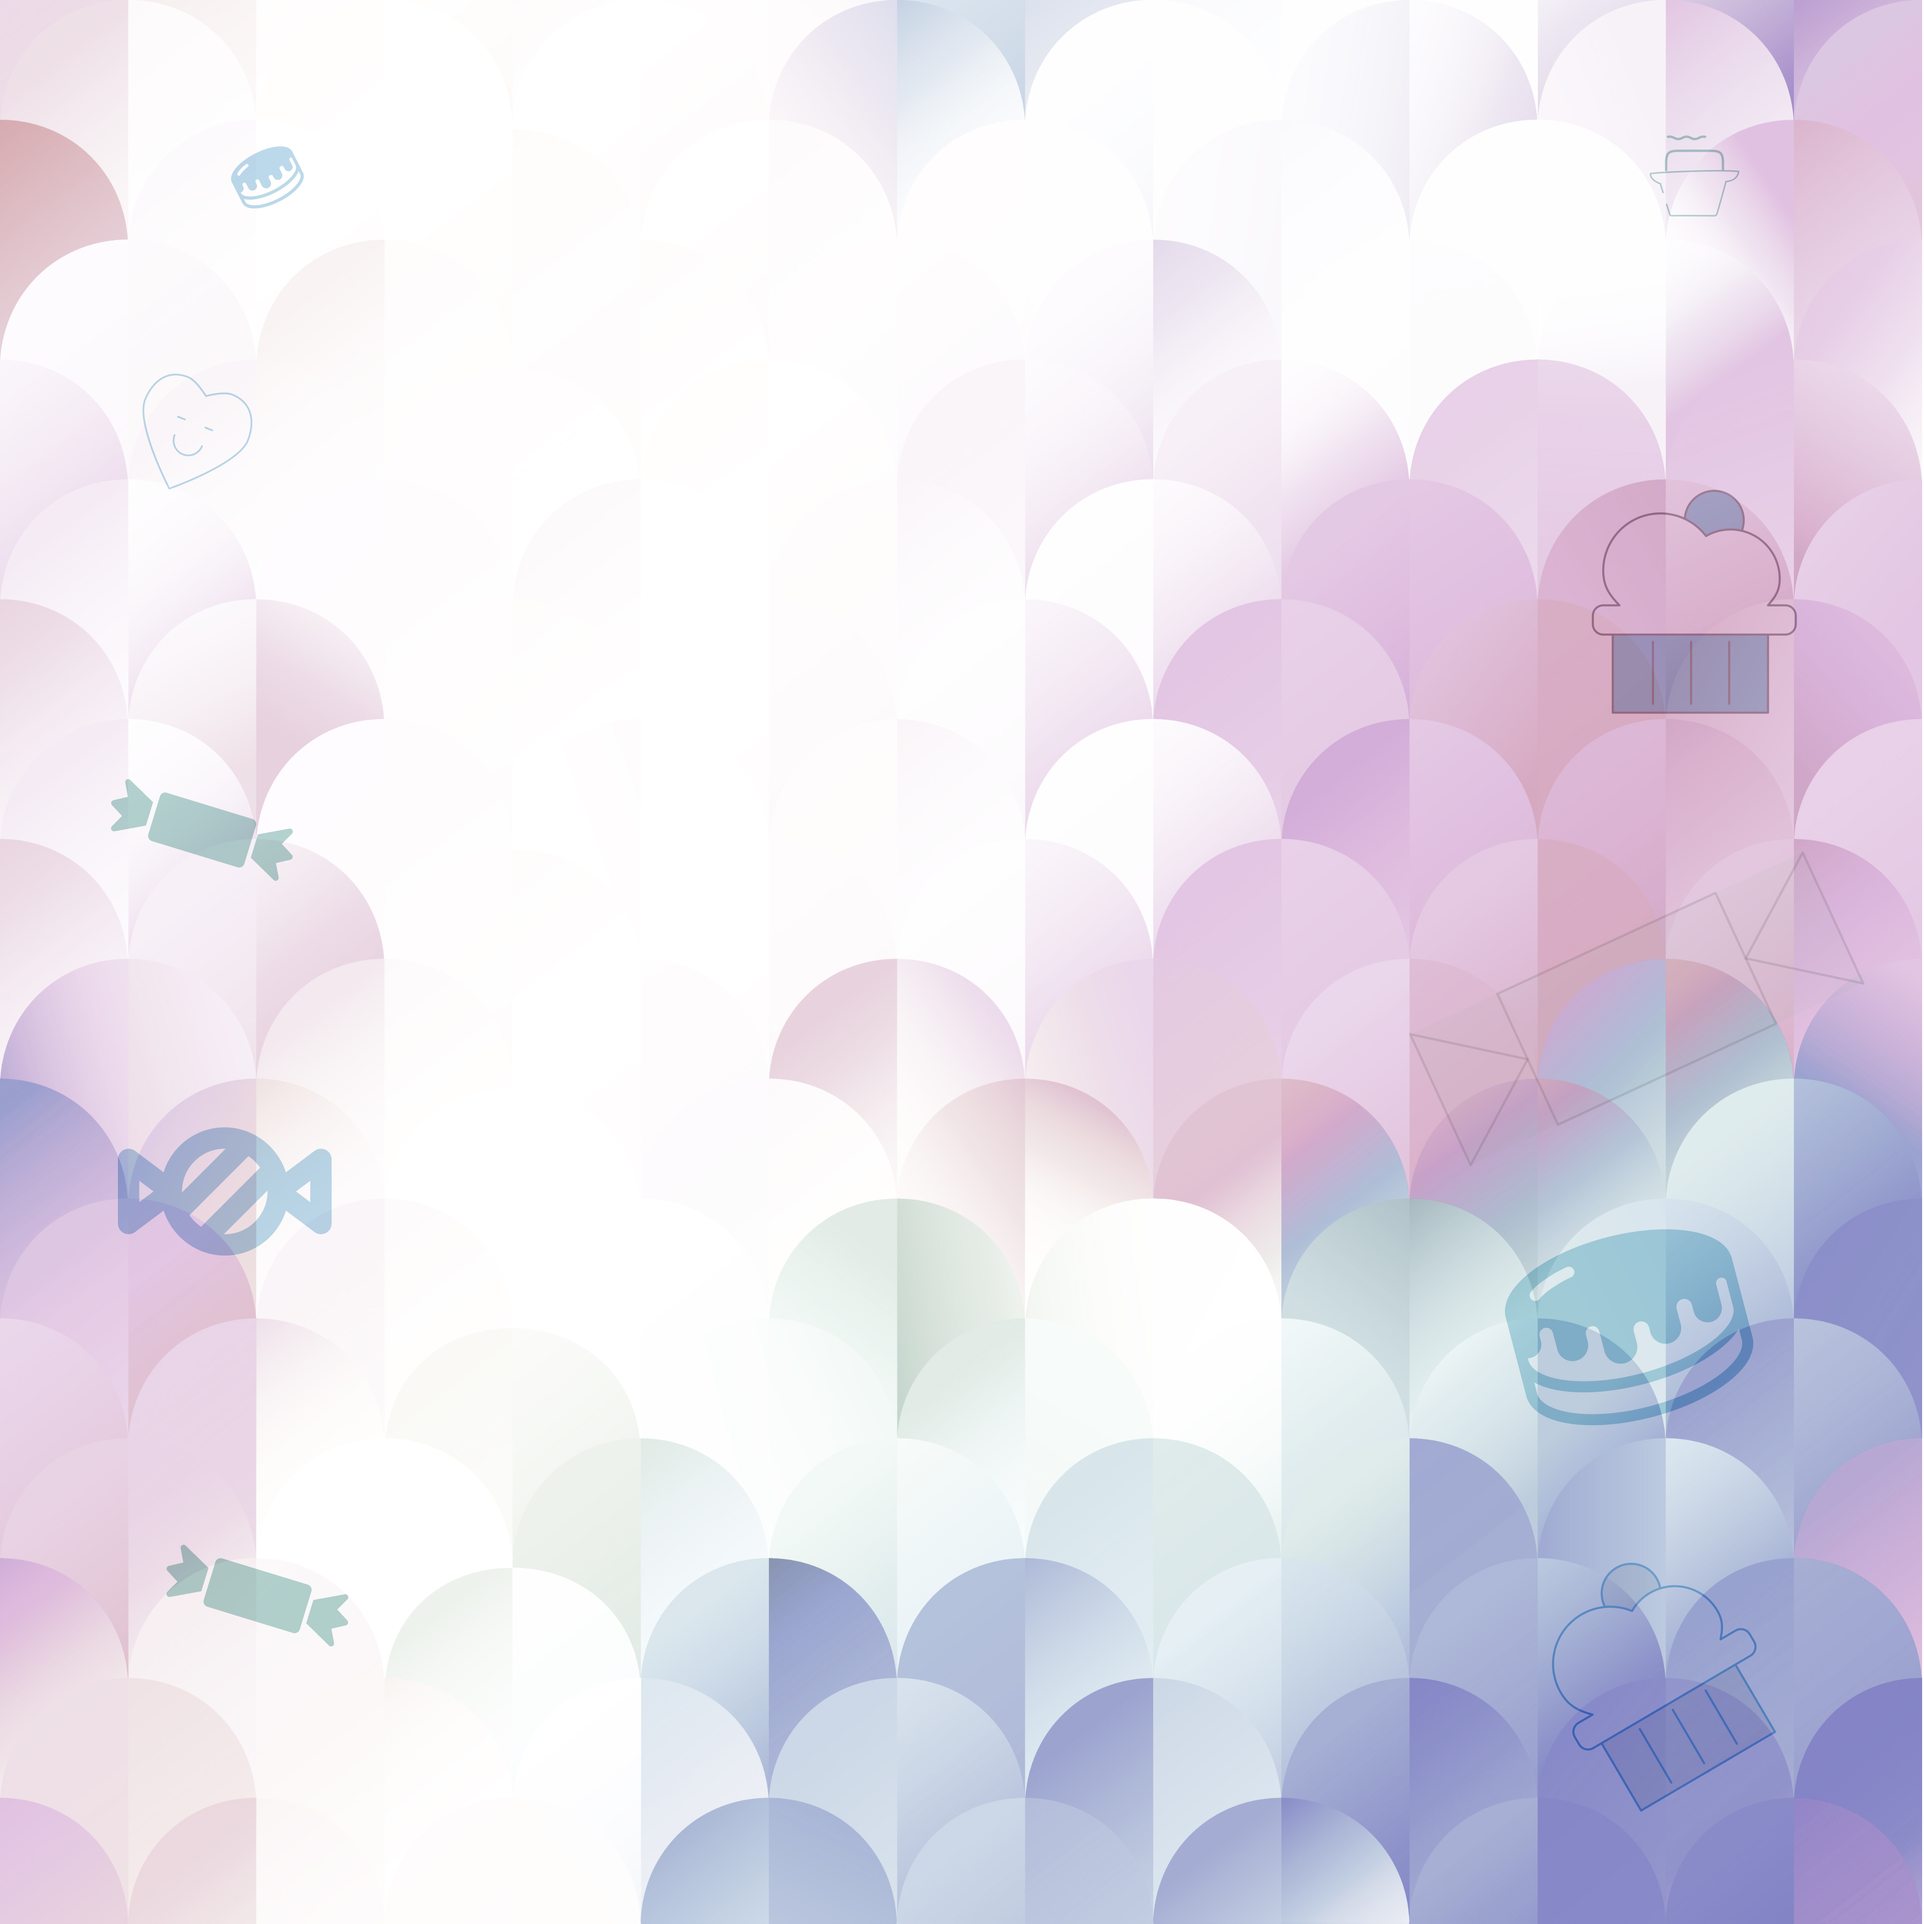
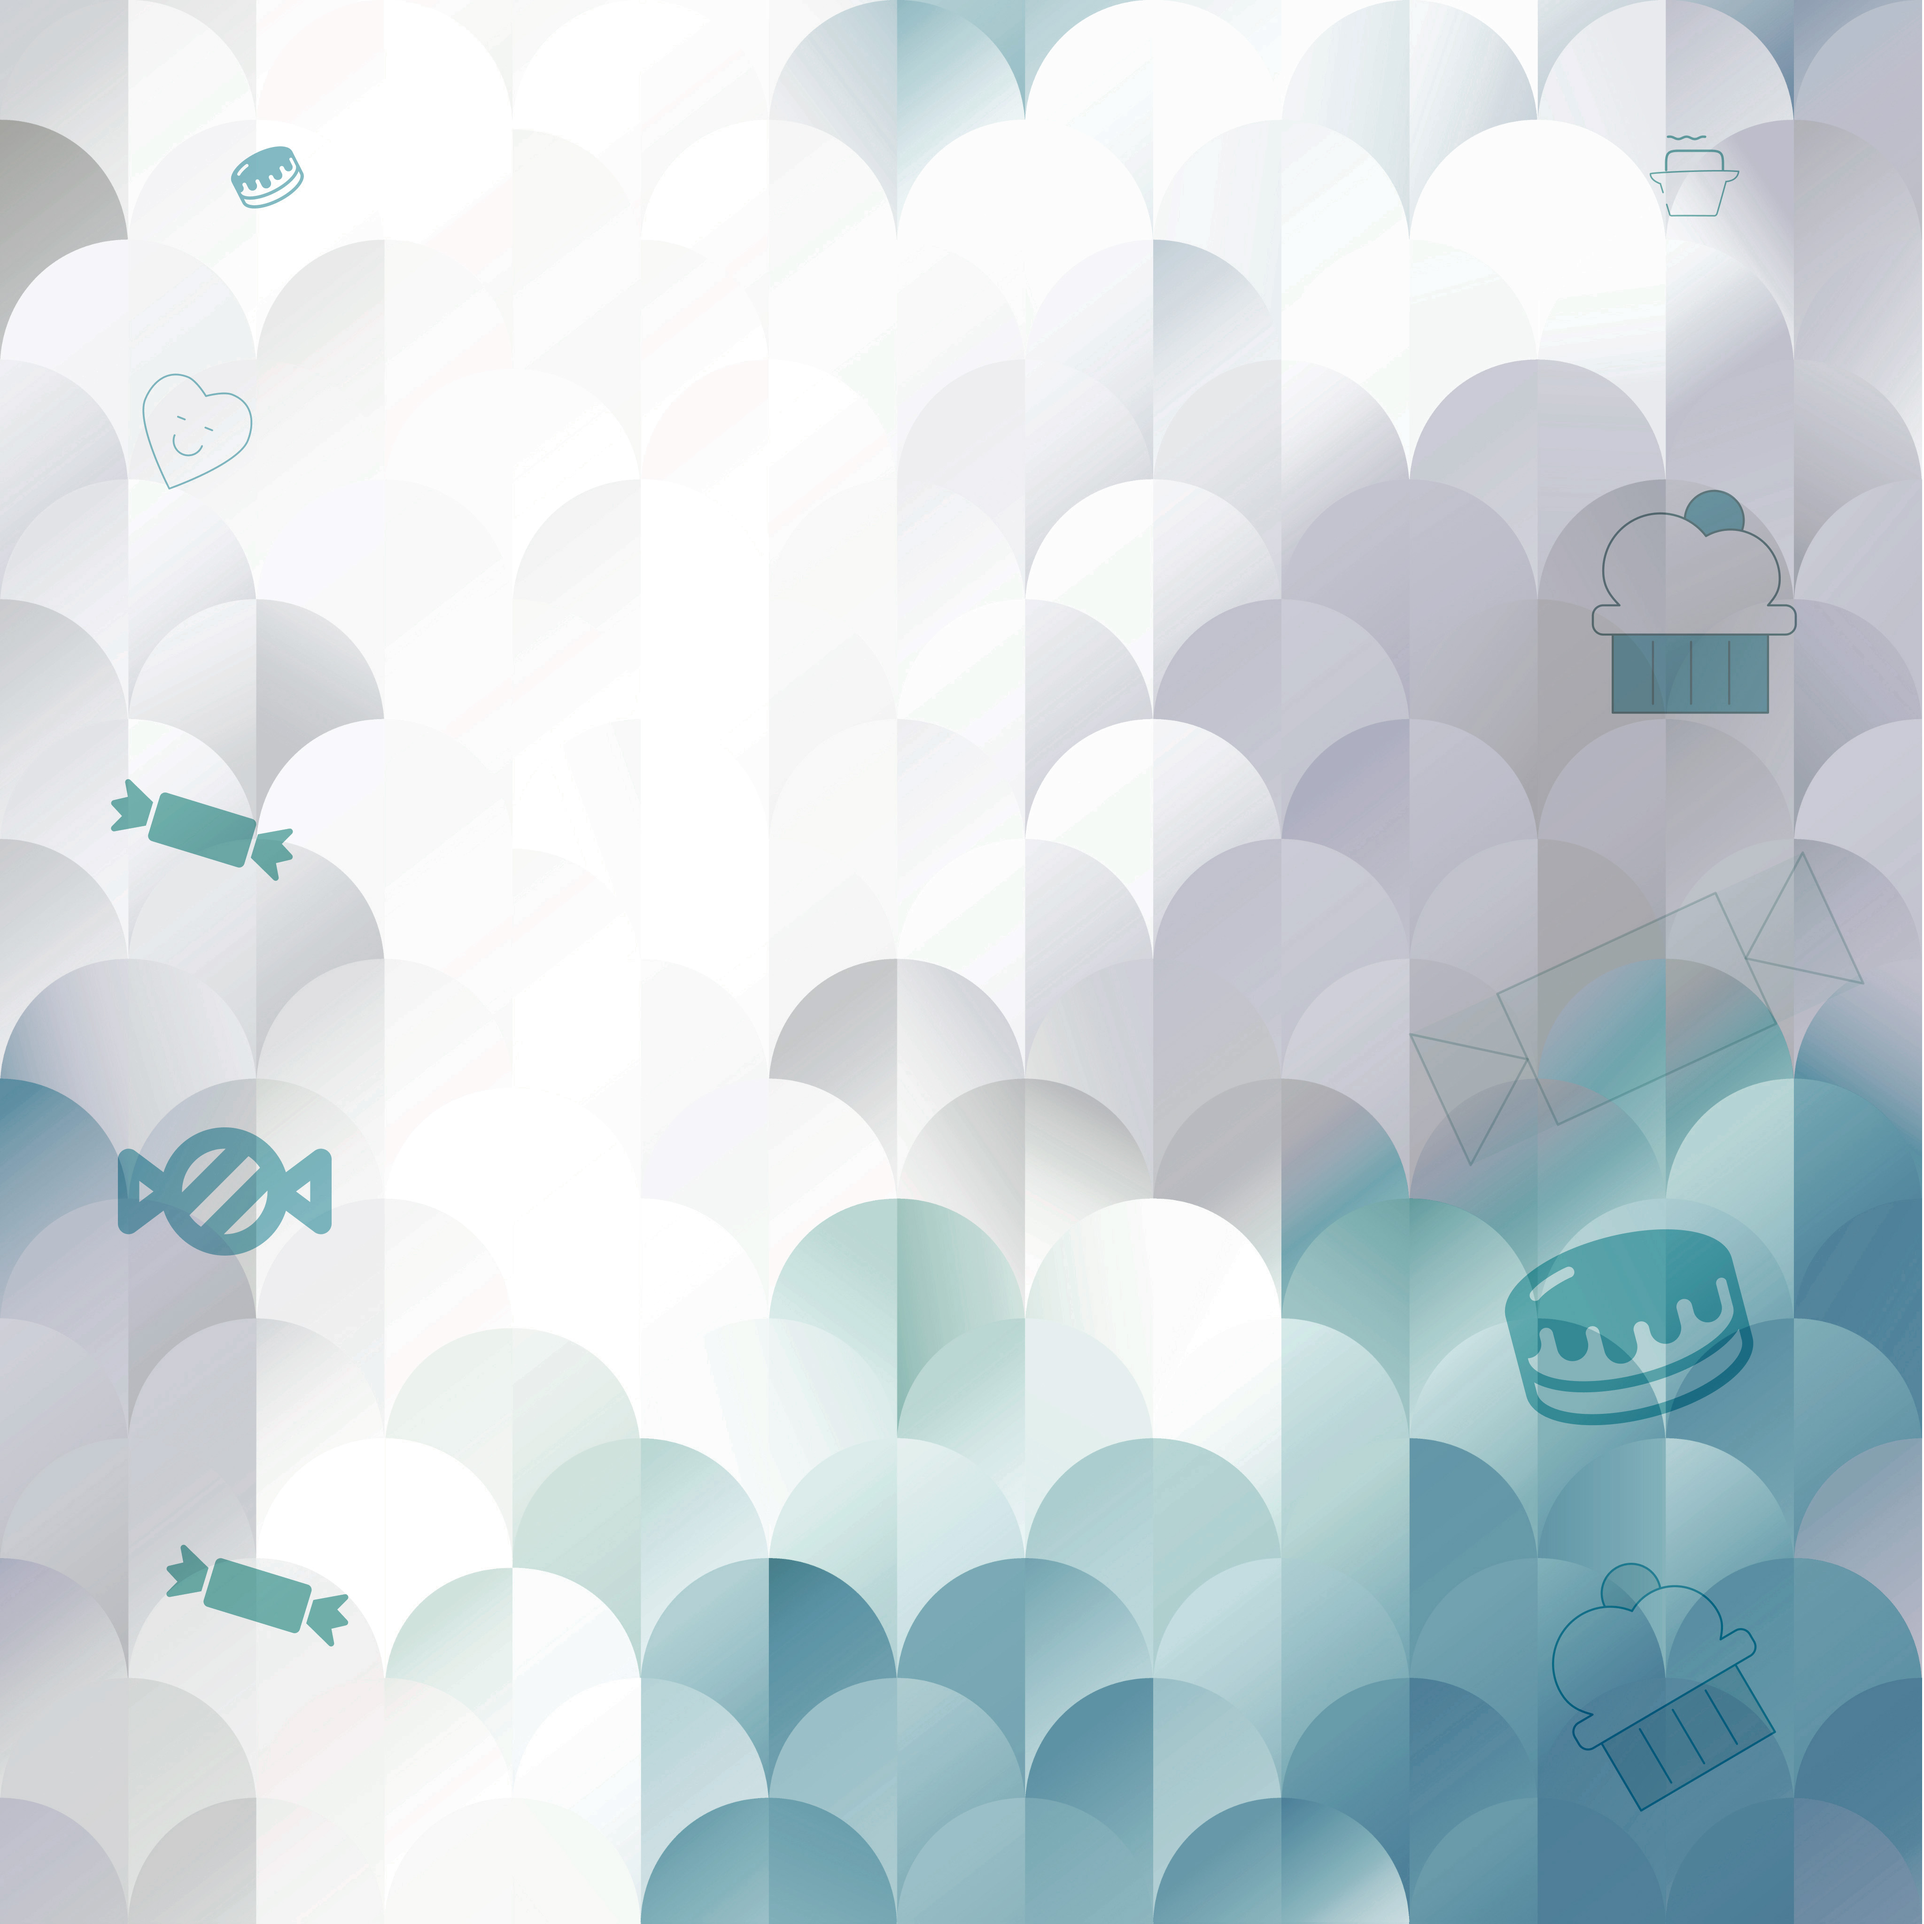
troca bg

diff --git a/app/components/EventosPassado.js b/app/components/EventosPassado.js
@@ -2,6 +2,7 @@
 import React, { useState } from 'react';
 
 import Image from 'next/image';
+import Divider from './Divider';
 
 const imagensPorAno = {
   2022: [
@@ -29,15 +30,15 @@ export default function EventosPassados() {
     <section id="EventosPassados">
       <div className="container pt-5">
         <div className="text-center mb-5">
-          <h2 className="text-center">Projeto Família Amor Eterno</h2>
+          <h2 className="text-center teste">Projeto Família Amor Eterno</h2>
           <div className="blue-divider"></div>
         </div>
         <div className="row">
           <div className="col-md-6 d-flex justify-content-center align-items-center">
             <Image
-              src="/foto1-20.webp"
+              src="/equipe.webp"
               alt="Background Image"
-              width={500}
+              width={600}
               height={300}
               layout="responsive"
             />
@@ -61,15 +62,19 @@ export default function EventosPassados() {
             </div>
           </div>
         </div>
+        <div className="pt-5"></div>
+        <Divider />
+        <div className="pt-5"></div>
         <div className="row">
           <div className="col-2"></div>
           <div className="col-8">
             {Object.keys(imagensPorAno).map((ano) => (
               <div key={ano}>
-                <h2 className="text-center mb-2 mt-3 ">
+                <h2 className="text-center mb-2 mt-3 teste ">
                   Campanha de doação de {ano}
                 </h2>
                 <div className="blue-divider"></div>
+                <div className="pt-3"></div>
                 <CustomCarousel images={imagensPorAno[ano]} />
               </div>
             ))}
@@ -77,6 +82,7 @@ export default function EventosPassados() {
           <div className="col-2"></div>
         </div>
       </div>
+      <div className="pt-5"></div>
     </section>
   );
 }

diff --git a/app/components/SecaoHero.js b/app/components/SecaoHero.js
@@ -19,10 +19,10 @@ const SecaoHero = () => {
       <div className="text-center">
         <h1
           style={{
-            fontSize: '4rem',
+            fontSize: '6rem',
             fontFamily: "'Comic Sans MS', cursive, sans-serif",
-            color: '#1E90FF',
-            textShadow: '3px 3px 2px rgba(0, 0, 0, 0.3)', // Borda nas letras
+            color: '#003CC3',
+            textShadow: '3px 3px 2px rgba(0, 0, 0, 5)', // Borda nas letras
           }}
         >
           DIA DAS CRIANÇAS
@@ -30,10 +30,10 @@ const SecaoHero = () => {
         <p
           className="lead"
           style={{
-            fontSize: '2rem',
+            fontSize: '3rem',
             fontFamily: "'Comic Sans MS', cursive, sans-serif",
-            color: 'black',
-            textShadow: '2px 2px 1px rgba(0, 0, 0, 0.2)', // Borda nas letras
+            color: '#F5FDFF',
+            textShadow: '2px 2px 5px rgba(0, 0, 0, 8)', // Borda nas letras
           }}
         >
           Projeto família amor eterno 2023
@@ -47,7 +47,9 @@ const SecaoHero = () => {
           style={{
             fontSize: '2rem',
             fontFamily: "'Comic Sans MS', cursive, sans-serif",
-            textShadow: '2px 2px 1px rgba(255, 255, 255, 0.2)', // Borda nas letras
+            textShadow: '2px 2px 1px rgba(245, 253, 255, .8)', //
+
+            fontWeight: 'bold',
           }}
         >
           Ajude a fazer um Dia das Crianças mais feliz
@@ -58,7 +60,7 @@ const SecaoHero = () => {
             fontSize: '1.5rem',
           }}
         >
-          Quero ajudar
+          QUERO AJUDAR
         </button>
       </div>
     </div>

diff --git a/app/components/Divider.js b/app/components/Divider.js
@@ -12,6 +12,11 @@ const Divider = () => {
       <div className={styles.cloud} style={{ left: '900px' }}></div>
       <div className={styles.cloud} style={{ left: '1050px' }}></div>
       <div className={styles.cloud} style={{ left: '1200px' }}></div>
+      <div className={styles.cloud} style={{ left: '1350px' }}></div>
+      <div className={styles.cloud} style={{ left: '1500px' }}></div>
+      <div className={styles.cloud} style={{ left: '1650px' }}></div>
+      <div className={styles.cloud} style={{ left: '1800px' }}></div>
+      <div className={styles.cloud} style={{ left: '1950px' }}></div>
     </div>
   );
 };

diff --git a/app/components/Sobre.js b/app/components/Sobre.js
@@ -49,8 +49,8 @@ export default function Sobre() {
               src="/chacara.jpg"
               alt="Foto da comunidade"
               width={900} // Defina as dimensões que preferir
-              height={100}
-              className="img-fluid"
+              height={750}
+              className="rounded-3"
             />
           </div>
         </div>

diff --git a/app/components/EsseAno.js b/app/components/EsseAno.js
@@ -17,7 +17,7 @@ const EsseAno = () => {
 
   return (
     <section id="EsseAno" className="container">
-      <h2 className="text-center pt-5">Projeto 2023</h2>
+      <h2 className="text-center pt-5 teste">Projeto 2023</h2>
       <div className="blue-divider"></div>
 
       <div className="row">

diff --git a/app/page.js b/app/page.js
@@ -19,9 +19,9 @@ export default function Home() {
         <EventosPassados />
         <Divider />
         <EsseAno />
-        <div className="pt-5">
-          <Divider />
-        </div>
+
+        <Divider />
+
         <Historia />
         <Divider />
         <Finalizar />

diff --git a/app/globals.css b/app/globals.css
@@ -4,9 +4,7 @@
 body {
   margin: 0;
   padding: 0;
-  background-image: url('/01.jpg');
-
-  background-size: cover;
+  background-image: url('/01.webp');
 }
 
 .bordered-text {
